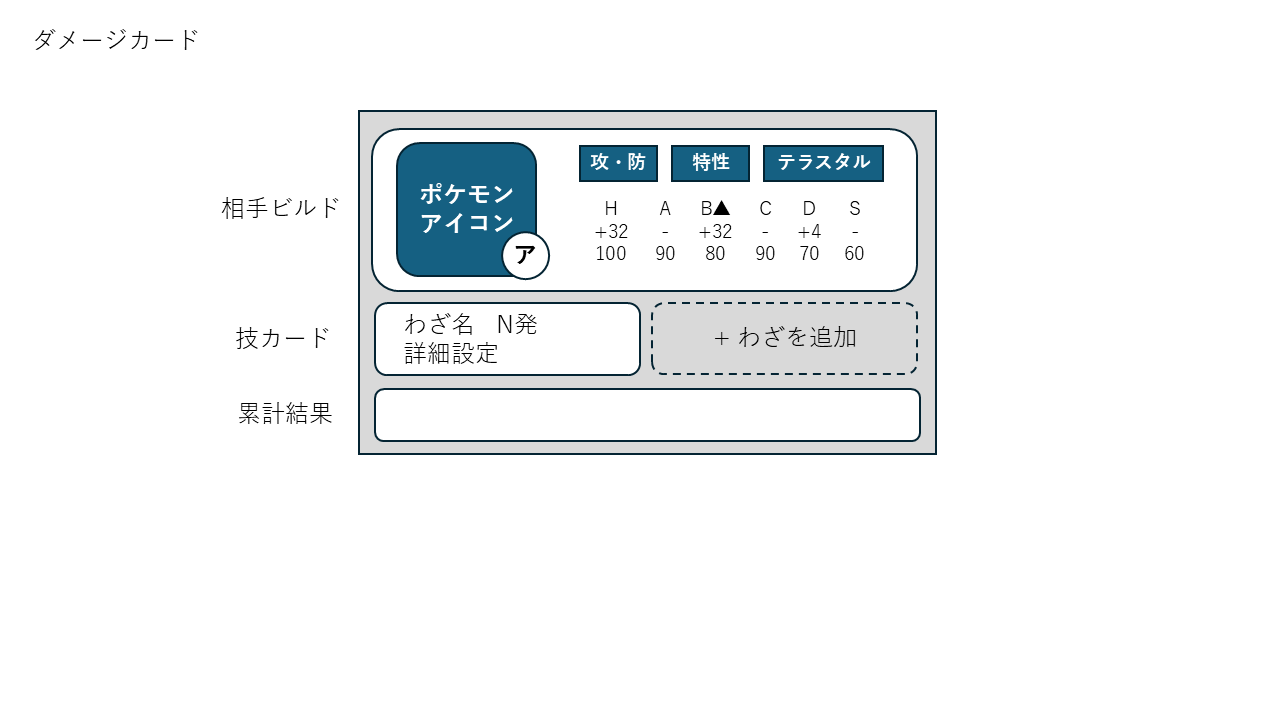
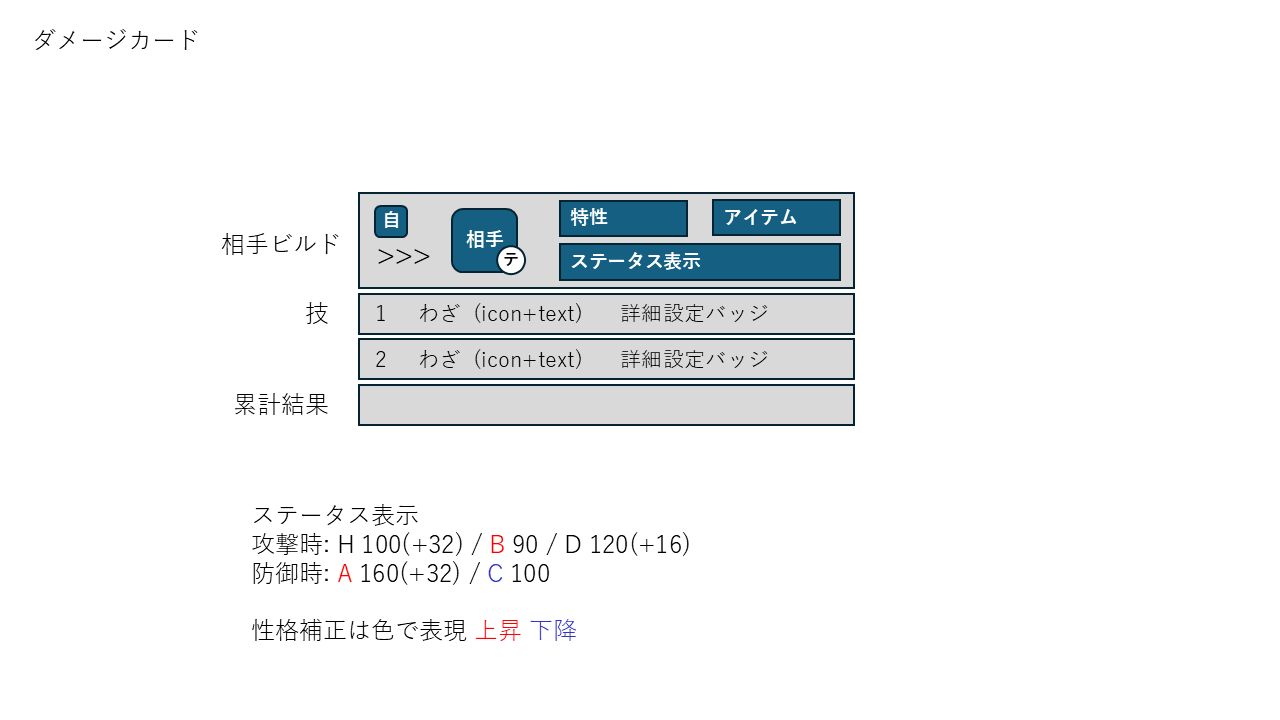
@ tweak: ダメージカードのモバイル表示から編集UIを外し、ポケモン画像を拡大
セッション開始時にワーキングツリーへ未コミットで残っていた変更を、
別途進めているデッドCSS棚卸しの削除コミットと混ざらないよう先に切り出した。

  - 相手情報の名前入力行(.pokemon-name-row)・特性切り替えボタン
    (.damage-row-ability-cycle)・持ち物入力欄・性格切り替えボタン
    (.damage-ev-nature-cycle)とそれらのモバイル用開閉ルールを削除
  - 自分/相手のポケモン画像を50pxへ統一(--damage-card-mobile-self-sprite-size
    を廃止し--damage-card-sprite-sizeへ集約)、持ち物アイコンを23pxへ拡大
  - --damage-card-paddingを0に、--damage-card-readonly-field-gapを
    var(--space-3)へ広げ、持ち物アイコンのはみ出しを0pxに
  - 上記で参照ゼロになった変数14件の定義を削除

docs/ui/mobile/4.png・5.pngは対応する画面キャプチャの更新。

@

diff --git a/src/styles/box-damage-card.css b/src/styles/box-damage-card.css
@@ -112,28 +112,19 @@
 
   /* ── 7. 余白 ─────────────────────── */
   --damage-card-margin: 0; /* カード外側の余白。大きくすると隣のカードから離れる */
-  --damage-card-padding: var(--space-2) var(--space-3); /* カード内側の余白。大きくすると内容が中央へ寄る */
+  --damage-card-padding: 0; /* カード内側の余白。大きくすると内容が中央へ寄る */
   --damage-card-body-gap: var(--space-1); /* 相手情報と技一覧の間隔。大きくすると左右の領域が離れる */
   --damage-card-body-bottom-padding: var(--space-1); /* カード本文の下余白。大きくすると下端との間が広がる */
-  --damage-card-build-padding: .35rem .6rem; /* 相手情報欄の内側余白。大きくすると内容が内側へ寄る */
   --damage-card-build-gap: .15rem; /* 相手情報の各行の間隔。大きくすると縦に広がる */
-  --damage-card-readonly-field-gap: var(--space-1); /* 名前・特性・テラスタイプ表示の間隔 */
-  --damage-card-name-row-gap: .35rem; /* ポケモン名の入力欄まわりの間隔。大きくすると同じ行の部品が離れる */
-  --damage-card-name-input-padding: .32em .45em; /* 相手名の入力欄の内側余白。大きくすると入力欄が太くなる */
-  --damage-card-form-control-padding: .22em .38em; /* 相手情報の選択欄・入力欄の内側余白 */
+  --damage-card-readonly-field-gap: var(--space-3); /* 名前・特性・テラスタイプ表示の間隔 */
   --damage-card-direction-padding: .25em .4em; /* 攻撃・防御スイッチの内側余白 */
   --damage-card-tera-button-gap: .35rem; /* テラスタイプの画像と名前の間隔 */
   --damage-card-tera-button-padding: .22em .38em; /* テラスタイプ選択ボタンの内側余白 */
   --damage-card-dropdown-padding: var(--space-1); /* 候補リスト内側の余白 */
   --damage-card-dropdown-option-gap: .35rem; /* 候補内の画像と文字の間隔 */
   --damage-card-dropdown-option-padding: .25em .4em; /* 候補1行の内側余白 */
-  --damage-card-stat-grid-gap: .15rem; /* 実数値・努力値の列間隔 */
-  --damage-card-stat-grid-top-margin: .15rem; /* 実数値・努力値と上の相手情報との間隔 */
   --damage-card-stat-input-padding: .08em .1em; /* 努力値入力欄の内側余白 */
-  --damage-card-nature-button-gap: .2em; /* 性格補正の記号と能力名の間隔 */
-  --damage-card-nature-button-padding: .05rem 0; /* 性格切り替えボタンの上下余白 */
   --damage-card-condition-gap: var(--space-1); /* 条件チップ同士の間隔 */
-  --damage-card-condition-top-margin: .1rem; /* 条件チップと技名の間隔 */
   --damage-card-condition-padding: .1em .5em; /* 条件チップの内側余白 */
   --damage-card-total-padding: var(--space-1); /* 累計ゲージの内側余白 */
   --damage-card-total-label-bottom-margin: .15rem; /* ラベルと結果の間隔 */
@@ -145,8 +136,6 @@
   --damage-card-column-gap: var(--space-2); /* 技カード内の番号・技名・結果の間隔 */
   --damage-card-column-input-padding: .28em .35em; /* 技名・回数入力欄の内側余白 */
   --damage-card-column-inner-gap: .15rem; /* 技名と補助情報の縦間隔 */
-  --damage-card-result-gap: .5em; /* 技ごとの判定と詳細数値の間隔 */
-  --damage-card-result-verdict-margin: .4rem; /* 技ごとの判定の左余白 */
   --damage-card-add-button-padding: .16rem var(--space-2); /* 「技を追加」ボタンの内側余白 */
   --damage-card-add-button-gap: .35em; /* 「技を追加」ボタン内の記号と文字の間隔 */
   --damage-card-footer-top-margin: var(--space-1); /* 保存状態欄とカード本文の間隔 */
@@ -178,8 +167,8 @@
   --damage-card-build-width: 340px; /* 広い画面での相手情報欄の幅。大きくすると技欄が狭くなる */
   --damage-card-tera-summary-icon-size: 20px; /* テラスタイプの小アイコン。大きくすると名前横の印が大きくなる */
   --damage-card-dropdown-max-height: 16rem; /* 候補リストの最大高さ。小さくすると早くスクロール表示になる */
-  --damage-card-sprite-size: 40px; /* 相手ポケモン画像の表示サイズ */
-  --damage-card-item-badge-size: 21px; /* 持ち物アイコンの大きさ */
+  --damage-card-sprite-size: 50px; /* 自分・相手ポケモン画像の表示サイズ(共通) */
+  --damage-card-item-badge-size: 23px; /* 持ち物アイコンの大きさ */
   --damage-card-type-badge-size: 20px; /* タイプバッジの大きさ */
   --damage-card-stat-grid-label-width: 3.4em; /* 努力値表の左端ラベル幅。大きくすると数値列が右へ寄る */
   --damage-card-total-result-max-width: calc(100% - 40px); /* 累計結果の最大幅。小さくすると右側の空きが広がる */
@@ -196,7 +185,6 @@
   --damage-detail-selection-icon-size: 28px; /* 選択中ポケモンのアイコンサイズ */
   --damage-detail-selection-arrow-width: 27px; /* 対面表示の矢印の幅 */
   --damage-detail-selection-arrow-height: 18px; /* 対面表示の矢印の高さ */
-  --damage-card-mobile-self-sprite-size: 40px; /* 攻守矢印の横に出る自分の画像サイズ */
   --damage-card-mobile-control-height: 28px; /* 特性・テラスタイプ操作の最小高さ */
   --damage-card-mobile-stat-cell-height: 1.75rem; /* コンパクト表示の能力値1行の高さ */
   --damage-card-mobile-stat-input-width: 3.2rem; /* 努力値編集時の数値入力欄の幅 */
@@ -208,7 +196,7 @@
   --damage-card-dropdown-offset: .25rem; /* 選択ボタンと候補リストの間隔 */
   --damage-card-sprite-item-shift: -2px; /* 持ち物表示時のポケモン画像の横ずらし量 */
   --damage-card-type-badge-offset: -2px; /* タイプバッジの角からのはみ出し量 */
-  --damage-card-item-badge-offset: -2px; /* 持ち物アイコンの角からのはみ出し量 */
+  --damage-card-item-badge-offset: 0px; /* 持ち物アイコンの角からのはみ出し量 */
   --damage-card-total-detail-opacity: .85; /* 詳細部分の濃さ。小さくすると薄くなる */
   --damage-card-delete-offset: var(--space-2); /* 削除ボタンとカード右上端の間隔 */
   --damage-card-delete-animation-duration: .16s; /* 長押し削除モードでカードが揺れる速さ */
@@ -240,14 +228,6 @@
 /* --------------------------------------------------------------------------
    カード外枠と基本入力欄
    -------------------------------------------------------------------------- */
-/* 相手ポケモン名の入力行 */
-#opponent-notes-section .pokemon-name-row {
-  flex-wrap: nowrap;
-  align-items: center;
-  gap: var(--damage-card-name-row-gap);
-  display: flex;
-}
-
 #opponent-notes-section input:placeholder-shown:not(:focus) {
   background: none;
   border-style: dashed;
@@ -298,7 +278,6 @@
   gap: var(--damage-card-build-gap);
   width: var(--damage-card-build-width);
   max-width: 100%;
-  padding: var(--damage-card-build-padding);
   display: flex;
 }
 
@@ -426,22 +405,6 @@
   display: flex;
 }
 
-#opponent-notes-section .damage-row-build select, #opponent-notes-section .damage-row-build input[type="text"] {
-  width: 100%;
-  min-width: 0;
-  min-height: 0;
-}
-
-#opponent-notes-section .pokemon-name-row input[type="text"] {
-  width: auto;
-  min-width: 0;
-  font-size: var(--damage-card-form-control-font-size);
-  font-weight: var(--damage-card-summary-font-weight);
-  line-height: var(--line-height-tight);
-  flex: 1 1 0;
-  padding: var(--damage-card-name-input-padding);
-}
-
 #opponent-notes-section .damage-row-actions {
   justify-content: space-between;
   align-items: center;
@@ -499,29 +462,6 @@
 #opponent-notes-section .damage-row-direction-option[data-role="defense"][aria-checked="true"] {
   background: var(--damage-card-defense-background);
   color: var(--damage-card-direction-selected-color);
-}
-
-#opponent-notes-section .damage-row-build-grid {
-  grid-template-columns: minmax(0, 1fr);
-  gap: var(--damage-card-build-gap);
-  display: grid;
-}
-
-#opponent-notes-section .damage-row-ability-cycle {
-  display: none;
-}
-
-#opponent-notes-section .damage-row-build-grid select, #opponent-notes-section .damage-row-build-grid input[type="text"] {
-  font-size: var(--damage-card-form-control-font-size);
-  text-overflow: ellipsis;
-  min-height: 0;
-  padding: var(--damage-card-form-control-padding);
-  line-height: var(--damage-card-form-control-line-height);
-  overflow: hidden;
-}
-
-#opponent-notes-section .damage-row-build-grid select {
-  padding-right: 1.3em;
 }
 
 #opponent-notes-section .damage-row-tera-field {
@@ -604,11 +544,6 @@
 
 #opponent-notes-section .tera-dropdown-list[hidden] {
   display: none;
-}
-
-#opponent-notes-section .damage-row-build-grid input.is-autofilled {
-  border-color: var(--color-primary);
-  box-shadow: 0 0 0 3px color-mix(in srgb, var(--color-primary) 30%, transparent);
 }
 
 /* 相手ポケモンのドット絵を置く正方形 */
@@ -759,8 +694,6 @@
 #opponent-notes-section .damage-ev-grid {
   grid-template-columns: var(--damage-card-stat-grid-label-width) repeat(6, minmax(0, 1fr));
   align-items: center;
-  gap: var(--damage-card-stat-grid-gap);
-  margin-top: var(--damage-card-stat-grid-top-margin);
   display: grid;
 }
 
@@ -813,29 +746,6 @@
   line-height: var(--damage-card-stat-line-height);
   text-align: center;
   color: var(--damage-card-stat-label-color);
-}
-
-/* 性格補正を順番に切り替える能力名ボタン */
-#opponent-notes-section .damage-ev-nature-cycle {
-  cursor: pointer;
-  background: none;
-  border: none;
-  justify-content: center;
-  align-items: baseline;
-  gap: var(--damage-card-nature-button-gap);
-  width: 100%;
-  padding: var(--damage-card-nature-button-padding);
-  font-family: inherit;
-  display: inline-flex;
-}
-
-#opponent-notes-section .damage-ev-nature-cycle:hover {
-  color: var(--color-primary);
-}
-
-#opponent-notes-section .damage-ev-nature-cycle:focus-visible {
-  outline: 2px solid var(--color-primary);
-  outline-offset: 1px;
 }
 
 #opponent-notes-section .damage-ev-nature-indicator {
@@ -907,7 +817,6 @@
 #opponent-notes-section .damage-row-condition-chips {
   gap: var(--damage-card-condition-gap);
   flex-wrap: wrap;
-  margin-top: var(--damage-card-condition-top-margin);
   display: flex;
 }
 
@@ -1316,7 +1225,6 @@
   border-radius: 0;
   flex-flow: wrap;
   align-items: baseline;
-  gap: 0 var(--damage-card-result-gap);
   margin: 0;
   padding: 0;
   display: flex;
@@ -1342,7 +1250,6 @@
 #opponent-notes-section .damage-column-result .damage-result-verdict {
   font-size: var(--damage-card-move-font-size);
   flex: none;
-  margin-left: var(--damage-card-result-verdict-margin);
   font-weight: var(--damage-card-total-verdict-font-weight);
 }
 
@@ -2037,7 +1944,7 @@
     display: flex;
   }
 
-  #opponent-notes-section .card-damage .damage-row-build-fields, #opponent-notes-section .card-damage .damage-row-build-grid {
+  #opponent-notes-section .card-damage .damage-row-build-fields {
     display: contents;
   }
 
@@ -2078,8 +1985,8 @@
 
   /* 攻守矢印の横に置く自分のポケモン画像 */
   #opponent-notes-section .card-damage .damage-direction-self-badge {
-    width: var(--damage-card-mobile-self-sprite-size);
-    height: var(--damage-card-mobile-self-sprite-size);
+    width: var(--damage-card-sprite-size);
+    height: var(--damage-card-sprite-size);
     justify-content: center;
     align-items: center;
     display: flex;
@@ -2117,35 +2024,6 @@
     justify-content: flex-end;
   }
 
-  #opponent-notes-section .card-damage .damage-row-build-grid select {
-    display: none;
-  }
-
-  /* 特性候補をクリックごとに切り替えるボタン */
-  #opponent-notes-section .card-damage .damage-row-ability-cycle {
-    min-width: 0;
-    font-weight: var(--damage-card-summary-font-weight);
-    font-size: var(--damage-card-form-control-font-size);
-    color: var(--color-text-muted);
-    white-space: nowrap;
-    text-overflow: ellipsis;
-    cursor: pointer;
-    background: var(--color-surface);
-    border: 1px solid var(--color-border);
-    border-radius: var(--radius-sm);
-    flex: 1 1 0;
-    order: 2;
-    padding: var(--damage-card-form-control-padding);
-    display: inline-flex;
-    overflow: hidden;
-  }
-
-  #opponent-notes-section .card-damage .damage-row-ability-cycle:hover:not(:disabled) {
-    color: var(--color-text);
-    background: var(--color-surface);
-    border-color: var(--color-primary);
-  }
-
   #opponent-notes-section .card-damage .damage-row-tera-field {
     flex: 1 1 0;
     order: 3;
@@ -2153,30 +2031,8 @@
     min-width: 0;
   }
 
-  #opponent-notes-section .card-damage .damage-row-ability-cycle, #opponent-notes-section .card-damage .tera-dropdown-button {
+  #opponent-notes-section .card-damage .tera-dropdown-button {
     min-height: var(--damage-card-mobile-control-height);
-  }
-
-  #opponent-notes-section .card-damage .pokemon-name-row {
-    flex: 1 0 100%;
-    order: 4;
-    display: none;
-  }
-
-  #opponent-notes-section .card-damage .damage-row-build-grid input[type="text"] {
-    flex: 1 0 100%;
-    order: 5;
-    display: none;
-  }
-
-  /* 名前編集を選んだときだけ、相手名の入力欄を開く */
-  #opponent-notes-section .card-damage .damage-row-build[data-mobile-edit="name"] .pokemon-name-row {
-    display: flex;
-  }
-
-  /* 持ち物編集を選んだときだけ、持ち物の入力欄を開く */
-  #opponent-notes-section .card-damage .damage-row-build[data-mobile-edit="item"] .damage-row-build-grid input[type="text"] {
-    display: block;
   }
 
   #opponent-notes-section .card-damage .damage-row-direction-option[aria-checked="false"] {
